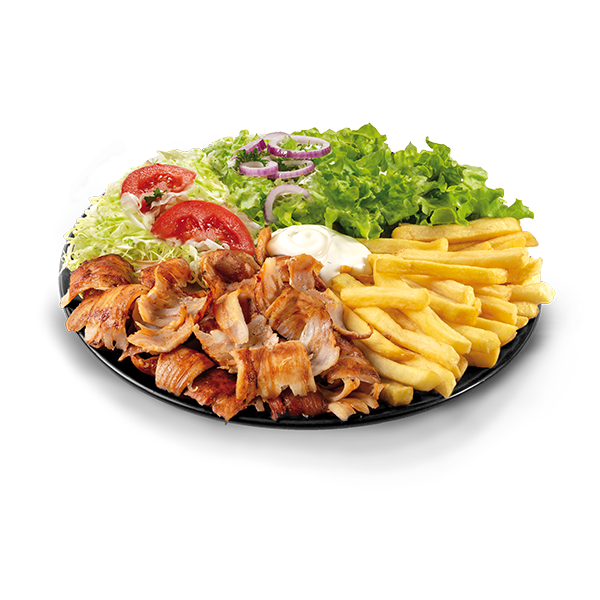
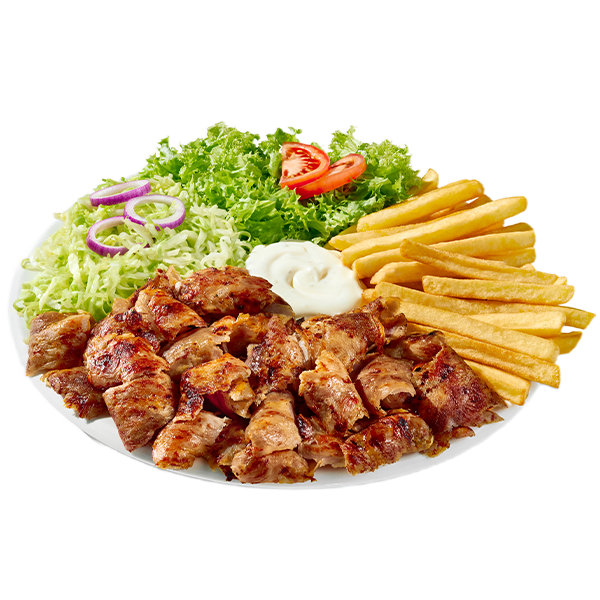
Add imgModal support, pizza variants, modal/card UI tweaks
- Add imgModal field to Piatto Kebab with 800x400 landscape image
- products.js: use imgModal for modal image with fallback to img
- Reduce product card and modal image padding
- Modal max-height 70vh on mobile, image height 150px
- Modal body gap reduced, name align-end, variants left-aligned full width
- Remove Livrări, add Istoria promo card on index
- Rename Restaurante → Locații in nav

diff --git a/css/meniu.css b/css/meniu.css
@@ -275,7 +275,7 @@
   width: 100%;
   height: 100%;
   object-fit: contain;
-  padding: 1.25rem;
+  padding: 0.75rem;
   box-sizing: border-box;
   transition: transform 0.4s ease;
 }
@@ -424,7 +424,7 @@
   width: 100%;
   height: 100%;
   object-fit: contain;
-  padding: var(--space-sm);
+  padding: 0.5rem;
   box-sizing: border-box;
 }
 
@@ -638,7 +638,7 @@
   }
 
   .product-modal {
-    max-height: calc(88vh - var(--nav-bottom-h) - env(safe-area-inset-bottom, 0px));
+    max-height: calc(70vh - var(--nav-bottom-h) - env(safe-area-inset-bottom, 0px));
     border-radius: var(--radius-xl) var(--radius-xl) 0 0;
     max-width: 100%;
     transform: translateY(100%);
@@ -660,7 +660,7 @@
   }
 
   .product-modal__img-wrap {
-    height: 200px;
+    height: 150px;
   }
 
   .product-modal__body {

diff --git a/js/products.js b/js/products.js
@@ -146,7 +146,7 @@
   function openModal(p) {
     var overlay = document.getElementById('productModal');
 
-    document.getElementById('modalImg').src = p.img;
+    document.getElementById('modalImg').src = p.imgModal || p.img;
     document.getElementById('modalImg').alt = p.name;
     document.getElementById('modalName').textContent = p.name;
 